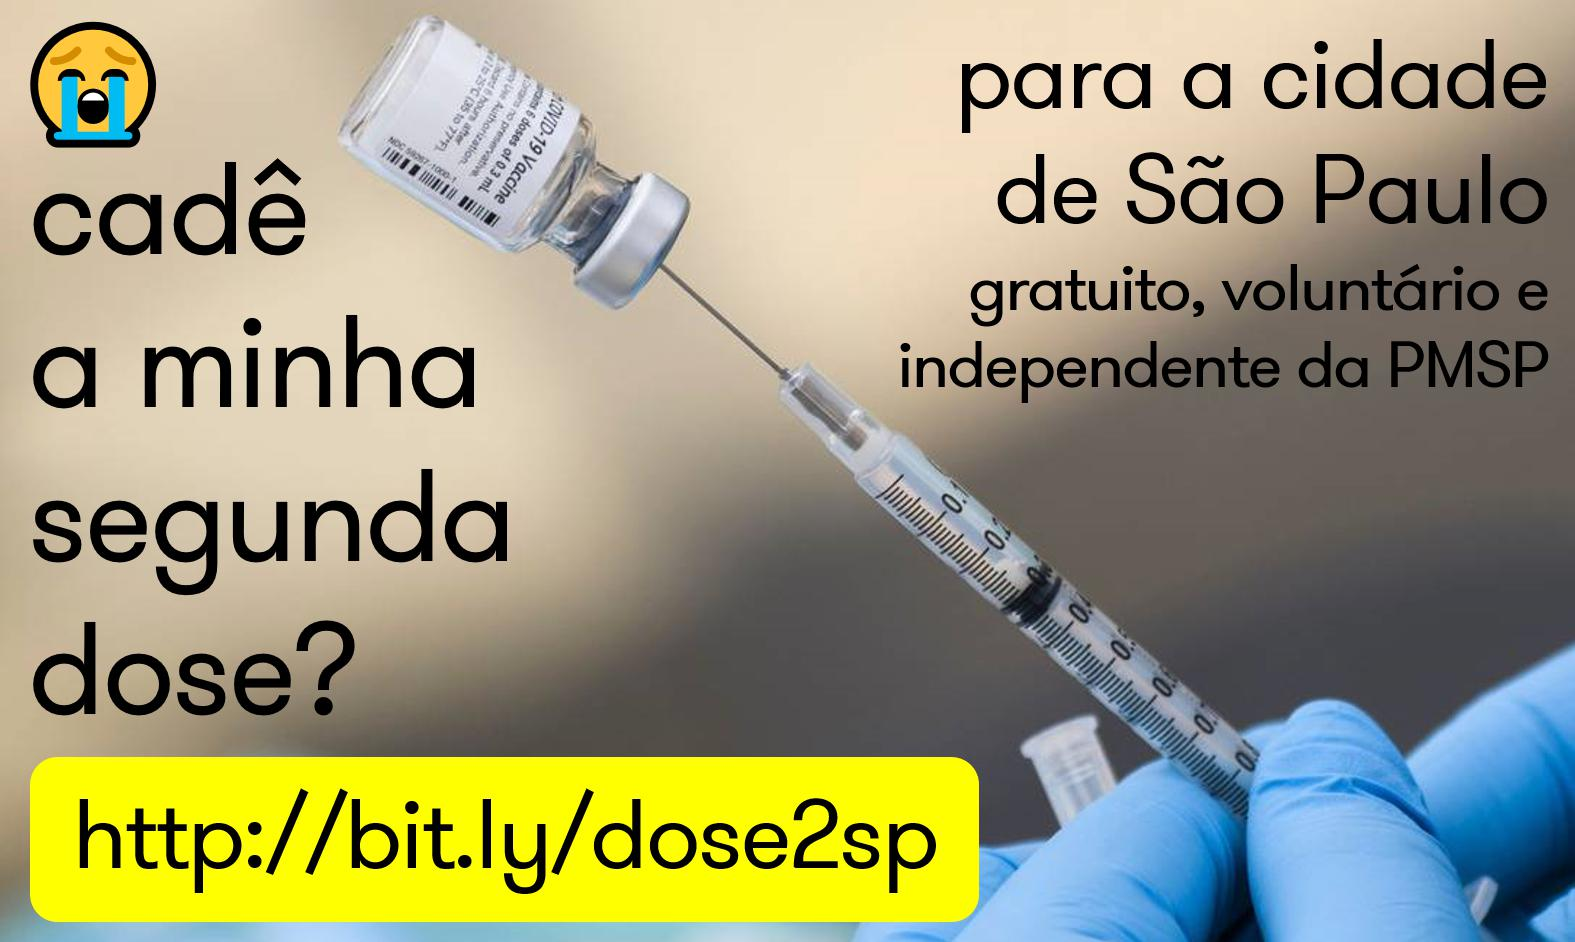
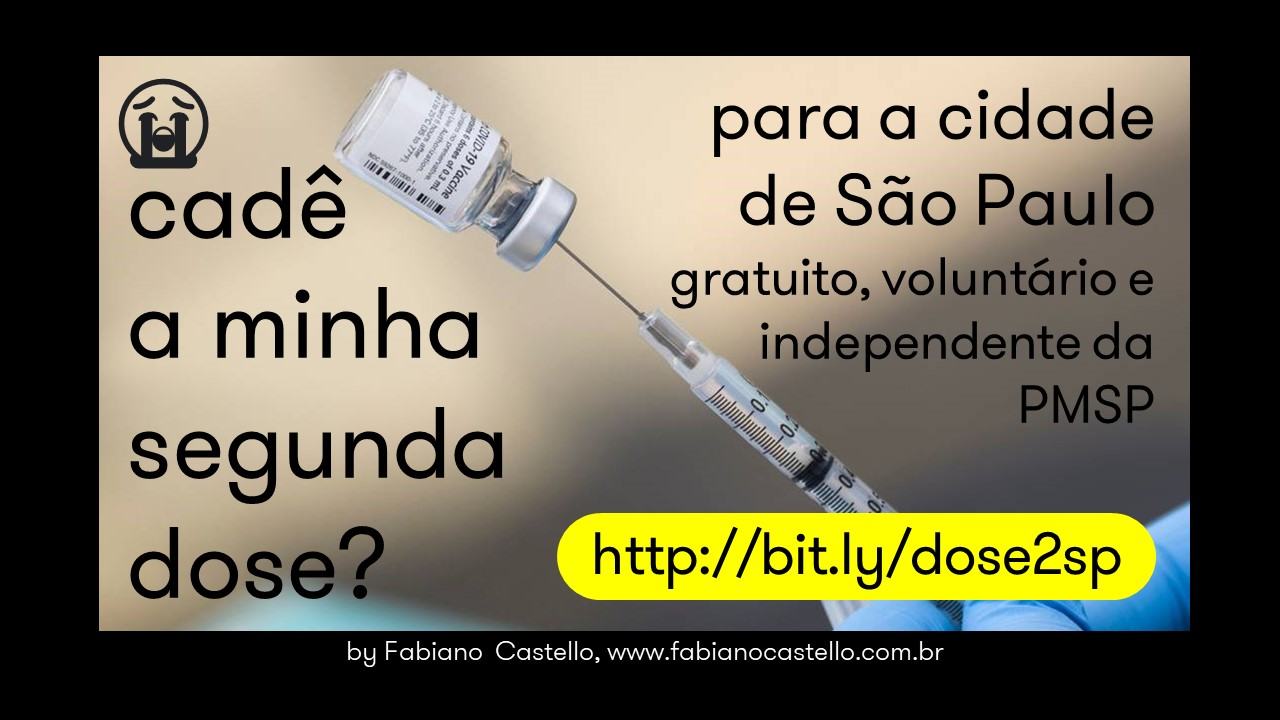
update

diff --git a/vj.py b/vj.py
@@ -30,8 +30,6 @@ if is_local:
     horario_atual = datetime.now()
 else:
     horario_atual = datetime.now() - timedelta(hours=3)
-
-
  
 global running_date
 running_date = horario_atual.strftime("%d-%m-%Y %Hh%Mm")
@@ -65,30 +63,38 @@ def run():
     slot_dispair    = st.empty()
     
     image = Image.open('BannerVJ.jpg')
-    st.image(image,use_column_width='always'  )  
+    col11,col12,col13 = st.columns([1,6,1])
+    with col12:
+        st.image(image,use_column_width='auto'  )  
     
-    st.markdown(f'''<body>
-    <p style="padding-top:0px;font-size:18px;line-height:18px"><span style="font-size:16px;line-height:16px">Desenvolvido por Fabiano Castello,<br>Cientista de Dados @cDataLab<br></span><span style="padding-top:0px;font-size:12px;line-height:12px"><span style="font-size:12px;line-height:12px">
-    <a href="http://www.linkedin.com/in/fabianocastello"
-    target="_blank">LinkedIn</a>, 
-    <a href="http://www.fabianocastello.com.br"
-    target="_blank">www.fabianocastello.com.br</a>, 
-    <a href="http://www.cdatalab.com.br"
-    target="_blank">www.cdatalab.com.br</a>, 
-    </span></span></p></body>''', unsafe_allow_html=True)
-    
-    st.markdown(f'''<body>
-    <p style="padding-top:0px;font-size:14px;line-height:14px"><span style="font-size:14px;line-height:14px">Agradecimentos ao meu amigo 
-    <a href="http://www.linkedin.com/in/marciorf"
-    target="_blank">Márcio Francisco</a>. 
-    </span></span></p></body>''', unsafe_allow_html=True)
+        st.markdown(f'''<body>
+        <p style="padding-top:0px;font-size:18px;line-height:18px"><span style="font-size:16px;line-height:16px">Desenvolvido por Fabiano Castello,<br>Cientista de Dados @cDataLab<br></span><span style="padding-top:0px;font-size:12px;line-height:12px"><span style="font-size:12px;line-height:12px">
+        <a href="http://www.linkedin.com/in/fabianocastello"
+        target="_blank">LinkedIn</a>, 
+        <a href="http://www.fabianocastello.com.br"
+        target="_blank">www.fabianocastello.com.br</a>, 
+        <a href="http://www.cdatalab.com.br"
+        target="_blank">www.cdatalab.com.br</a>, 
+        </span></span></p></body>''', unsafe_allow_html=True)
+        
+        st.markdown(f'''<body>
+        <p style="padding-top:0px;font-size:12px;line-height:12px"><span style="font-size:12px;line-height:12px">Estou buscando um patrocinador para infraestrutura escalável. Tem interesse? Mande uma&nbsp; 
+        <a href="mailto:fabianocastello@gmail.com?subject=Patrocínio%20Dose2" >mensagem</a>. 
+        </span></span></p></body>''', unsafe_allow_html=True)
+        
+        st.markdown(f'''<body>
+        <p style="padding-top:0px;font-size:14px;line-height:14px"><span style="font-size:14px;line-height:14px">Agradecimentos ao meu amigo 
+        <a href="http://www.linkedin.com/in/marciorf"
+        target="_blank">Márcio Francisco</a>. 
+        </span></span></p></body>''', unsafe_allow_html=True)
 
-    st.markdown(f'''<body>
-    <p style="padding-top:0px;font-size:8px;line-height:8px"><span style="font-size:8px;line-height:8px">{horario_atual.strftime('%d/%m %Hh%Mm')}&nbsp;{runningOn} 
-    </span></span></p></body>''', unsafe_allow_html=True)
+        st.markdown(f'''<body>
+        <p style="padding-top:0px;font-size:8px;line-height:8px"><span style="font-size:8px;line-height:8px">{horario_atual.strftime('%d/%m %Hh%Mm')}&nbsp;{runningOn} 
+        </span></span></p></body>''', unsafe_allow_html=True)
     
     with slot_form.form(key='inputs'):
         st.write('Informe seu CEP com 5 dígitos, há quanto tempo a informação dos locais foi atualizado e a vacina que você está procurando:')
+        
         col1,col2,col3 = st.columns(3)
 
         with col1:
@@ -294,7 +300,7 @@ def update_df():
         return(False, pd.DataFrame, 'N/A', cep, geo)
 
 global df, cep, geo
-with st.spinner('Atualizando dados. Aguarde menos de 1 minuto!'):
+with st.spinner('Atualizando dados. Aguarde alguns segundos!'):
     status, df,update, cep, geo = update_df() 
     
 print(status, update)
@@ -394,16 +400,13 @@ def show_local(r):
 sharing_message = """
 <body><p style="font-size:14px;line-height:16px">Curtiu? Compartilhe!</span>
 <link rel="stylesheet" href="https://cdnjs.cloudflare.com/ajax/libs/font-awesome/4.7.0/css/font-awesome.min.css">
-<a href="https://www.facebook.com/sharer/sharer.php?title=Cade+minha+segunda+dose&u=http://www.fabianocastello.com.br"
+<a href="https://www.facebook.com/sharer/sharer.php?title=Cade+minha+segunda+dose&u=http://www.fabianocastello.com.br/dose2/"
 style="text-decoration:none" target="_blank"
 class="fa fa-facebook"> </a>&nbsp;
-<a href="https://twitter.com/intent/tweet?text=Cadê+minha+segunda+dose&url=http:www.fabianocastello.com.br" 
+<a href="https://twitter.com/intent/tweet?text=Cadê+minha+segunda+dose&url=http:www.fabianocastello.com.br/dose2/" 
 style="text-decoration:none" target="_blank"
 class="fa fa-twitter"></a>&nbsp;
-<a href="https://www.linkedin.com/shareArticle?title=Cade+minha+segunda+dose%3F&url=http:www.fabianocastello.com.br" 
-style="text-decoration:none" target="_blank"
-class="fa fa-linkedin"></a>&nbsp;
-<a href="whatsapp://send?text=Cade+minha+segunda+dose%3F http:www.fabianocastello.com.br" 
+<a href="whatsapp://send?text=Cade+minha+segunda+dose%3F http://www.fabianocastello.com.br/dose2/" 
 style="text-decoration:none" target="_blank"
 class="fa fa-whatsapp"></a>
 </p></body>
